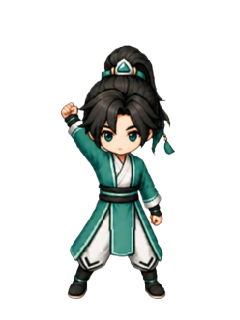
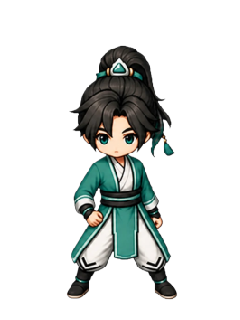
美术(T45 patch5)：cast_down_2 劈停左下重出（1 张·2 分）——链式锚定 cast_1 锁手别，check_left 26.881 一次过，归一 112x255/y300/x120.34

Changed region(s): [[0.2333, 0.125, 0.7583, 0.9375]]

diff --git a/assets/_trial_20260904/t45_batch1/patch_cast5/run_patch5.py b/assets/_trial_20260904/t45_batch1/patch_cast5/run_patch5.py
@@ -1,0 +1,340 @@
+#!/usr/bin/env python3
+"""T45 批 1 补丁 5 · cast_down_2 劈停左下重出（1 张，Leo 逐字任务书）。
+动作序列 = 举臂左上（cast_1 保留不动）→ 劈下停左下（cast_2 本张）→ 回位戒备（cast_3=复用锚已就位）。
+链式锚定：左格基准/第二参照/校验基准一律 = cast_down_1 成品（画面锁手别）。
+与 patch_cast4 的差异（任务书改口径）：
+  ①双格表 640×320（左格原点粘贴，非 640×427 条带）②prompt 任务书逐字（无骨架代换）
+  ③aspect 拒绝→9:16 重试一次并登记 ④门清单仅 check_left_v2 T=30（高度比只实测记录不拦截）
+  ⑤mxai 抠图失败重试不超 1 次（铁律）。
+用法:
+  python3 run_patch5.py gen     # 生图+check_left_v2+测量
+  python3 run_patch5.py finish  # 抠图+归一+入库（gen 过门后）
+"""
+import json
+import os
+import subprocess
+import sys
+from collections import deque
+from PIL import Image
+
+ROOT = os.path.abspath(os.path.join(os.path.dirname(__file__), "../../../.."))
+B1 = os.path.join(ROOT, "assets/_trial_20260904/t45_batch1")
+PC = os.path.join(B1, "patch_cast5")
+LIB = os.path.join(ROOT, "assets/characters/hero/battle45")
+
+NAME = "cast_down_2"
+ANCHOR = os.path.join(LIB, "cast_down_1.png")   # 链式锚：cast_1 成品（任务书步骤 2/4/5）
+SHEET = os.path.join(PC, "sheets", f"{NAME}_sheet.png")
+PF = os.path.join(PC, "prompts", f"{NAME}.txt")  # 任务书逐字 prompt（已落盘）
+RAW = os.path.join(PC, "raw", f"{NAME}_raw.png")
+
+WHITE_THRESH = 40
+MIN_CC = 2000
+T_LEFT = 30.0
+ASPECT = "3:2"
+ASPECT_FALLBACK = "9:16"   # 任务书：报价报 aspect 不支持→改 9:16 重试一次并登记
+
+
+def out_band(W, H):
+    return 0, H
+
+
+# ---------- 测量（纯 PIL，同 patch_cast4） ----------
+def cc_largest(region, thresh=WHITE_THRESH):
+    W, H = region.size
+    px = list(region.getdata())
+    fg = bytearray(W * H)
+    for i, (r, g, b) in enumerate(px):
+        if (255 - r) ** 2 + (255 - g) ** 2 + (255 - b) ** 2 > thresh * thresh:
+            fg[i] = 1
+    seen = bytearray(W * H)
+    best = None
+    for start in range(W * H):
+        if seen[start] or not fg[start]:
+            continue
+        seen[start] = 1
+        q = deque([start])
+        size = 0
+        minx = maxx = start % W
+        miny = maxy = start // W
+        sx = 0
+        while q:
+            i = q.popleft()
+            size += 1
+            x, y = i % W, i // W
+            sx += x
+            if x < minx: minx = x
+            if x > maxx: maxx = x
+            if y < miny: miny = y
+            if y > maxy: maxy = y
+            if x > 0 and fg[i - 1] and not seen[i - 1]:
+                seen[i - 1] = 1; q.append(i - 1)
+            if x < W - 1 and fg[i + 1] and not seen[i + 1]:
+                seen[i + 1] = 1; q.append(i + 1)
+            if y > 0 and fg[i - W] and not seen[i - W]:
+                seen[i - W] = 1; q.append(i - W)
+            if y < H - 1 and fg[i + W] and not seen[i + W]:
+                seen[i + W] = 1; q.append(i + W)
+        if best is None or size > best[0]:
+            best = (size, (minx, miny, maxx + 1, maxy + 1), sx / size)
+    return best
+
+
+def corners(img, box, tag):
+    x0, y0, x1, y1 = box
+    pts = [(x0 + 4, y0 + 4), (x1 - 5, y0 + 4), (x0 + 4, y1 - 5), (x1 - 5, y1 - 5)]
+    vals = [img.getpixel(p) for p in pts]
+    bad = []
+    for p, v in zip(pts, vals):
+        r, g, b = v[:3]
+        if min(r, g, b) < 245 or (max(r, g, b) - min(r, g, b)) > 12:
+            bad.append((p, v[:3]))
+    print(f"[corners:{tag}] {vals} " + ("OK" if not bad else f"NONWHITE={bad}"))
+    return bad
+
+
+def check_left(src_path, raw_path, t=T_LEFT):
+    """check_left v2（内容对齐版）：基准=cast_down_1 成品"""
+    src = Image.open(src_path).convert("RGBA")
+    raw = Image.open(raw_path).convert("RGB")
+    W, H = raw.size
+    region = raw.crop((0, 0, W // 2, H))
+    cc = cc_largest(region)
+    if cc is None:
+        print("[check_left_v2] 左半区无主体 FAIL")
+        return 999.0, False
+    bx = cc[1]
+    amask = src.getchannel("A").point(lambda v: 255 if v > 0 else 0)
+    abox = amask.getbbox()
+    tw, th = abox[2] - abox[0], abox[3] - abox[1]
+    crop = raw.crop(bx).resize((tw, th), Image.NEAREST)
+    aref = Image.alpha_composite(Image.new("RGBA", src.size, "WHITE"), src).crop(abox).convert("RGB")
+    sd, ld = list(aref.getdata()), list(crop.getdata())
+    total = 0.0
+    for (r1, g1, b1), (r2, g2, b2) in zip(sd, ld):
+        total += ((r1 - r2) ** 2 + (g1 - g2) ** 2 + (b1 - b2) ** 2) ** 0.5
+    mean = total / len(sd)
+    ok = mean <= t
+    print(f"[check_left_v2] baseline={os.path.basename(src_path)} content_aligned mean_rgb_dist={mean:.3f} T={t} "
+          f"{'PASS' if ok else 'FAIL'} raw_left_env={bx} anchor_env={abox}")
+    return mean, ok
+
+
+# ---------- 记录 ----------
+def log_read():
+    p = os.path.join(PC, "measure_log_patch5.json")
+    if os.path.exists(p):
+        with open(p, encoding="utf-8") as f:
+            return json.load(f)
+    return {}
+
+
+def log_write(rec):
+    p = os.path.join(PC, "measure_log_patch5.json")
+    logs = log_read()
+    logs[rec["frame"]] = rec
+    with open(p, "w", encoding="utf-8") as f:
+        json.dump(logs, f, ensure_ascii=False, indent=1)
+
+
+def credits_append(name, note):
+    p = os.path.join(B1, "credits.json")
+    arr = []
+    if os.path.exists(p):
+        with open(p, encoding="utf-8") as f:
+            arr = json.load(f)
+    arr.append({"name": name, "model": "gpt-image-2", "cost": 2,
+                "ts": "2026-09-04 T45-batch1-patch5", "note": note})
+    with open(p, "w", encoding="utf-8") as f:
+        json.dump(arr, f, ensure_ascii=False, indent=1)
+    print(f"[credits] +2 分，累计 {sum(x['cost'] for x in arr)} 分 / {len(arr)} 张")
+
+
+def sh(cmd, env=None):
+    print("[CMD] " + " ".join(cmd))
+    r = subprocess.run(cmd, cwd=ROOT, env=env or os.environ.copy(),
+                       stdout=subprocess.PIPE, stderr=subprocess.STDOUT, text=True)
+    print(r.stdout[-2000:] if r.stdout else "")
+    return r.returncode, r.stdout or ""
+
+
+def gen_once(aspect):
+    return sh(["python3", "scripts/mxai_img2img.py", SHEET, ANCHOR,
+               "--out", RAW, "--prompt-file", PF, "--aspect", aspect])
+
+
+# ---------- gen 阶段 ----------
+def stage_gen():
+    if not os.path.exists(ANCHOR):
+        print(f"[STOP] 链式锚不存在: {ANCHOR}"); sys.exit(6)
+    if not os.path.exists(SHEET):
+        print(f"[STOP] 双格表不存在（步骤 2 应已构造）: {SHEET}"); sys.exit(6)
+    if not os.path.exists(PF):
+        print(f"[STOP] prompt 不存在（步骤 3 应已落盘）: {PF}"); sys.exit(6)
+    if os.path.exists(RAW):
+        print(f"[E-ENV-05] raw 已存在，禁覆盖: {RAW}"); sys.exit(5)
+
+    rc, outp = gen_once(ASPECT)
+    aspect_note = ASPECT
+    if rc != 0 or not os.path.exists(RAW):
+        if "aspect" in outp.lower():
+            print(f"[aspect-拒绝] 改 {ASPECT_FALLBACK} 重试一次并登记（任务书步骤 4）")
+            aspect_note = ASPECT_FALLBACK
+            rc, outp = gen_once(ASPECT_FALLBACK)
+        else:
+            print("[E-GEN-01] 同命令重跑 1 次")
+            rc, outp = gen_once(ASPECT)
+    if rc != 0 or not os.path.exists(RAW):
+        rec = {"frame": NAME, "result": "SKIP", "reason": "生图两次失败", "log": outp[-500:]}
+        log_write(rec)
+        print("[STOP] 生图两次失败，登记停上报"); sys.exit(3)
+    try:
+        Image.open(RAW).verify()
+    except Exception as e:
+        print(f"[E-GEN-02] 返回图损坏: {e}")
+        os.rename(RAW, RAW.replace("_raw.png", "_fail1.png"))
+        rc, outp = gen_once(aspect_note)
+        if rc != 0 or not os.path.exists(RAW):
+            rec = {"frame": NAME, "result": "SKIP", "reason": "重跑后仍失败/损坏", "log": outp[-500:]}
+            log_write(rec)
+            print("[STOP] 登记停上报"); sys.exit(3)
+
+    credits_append(NAME, f"劈停左下重出：640x320 双格表双参照 img2img aspect={aspect_note}，"
+                         f"左格基准=cast_down_1.png（链式锁手别）；prompt 任务书逐字")
+
+    # check_left_v2（基准=cast_down_1，T=30；FAIL→重跑 1 次→再犯登记停上报）
+    mean, ok = check_left(ANCHOR, RAW)
+    rerun = None
+    if not ok:
+        rerun = f"check_left_FAIL_mean={mean:.3f}"
+        os.rename(RAW, RAW.replace("_raw.png", "_fail1.png"))
+        rc, outp = gen_once(aspect_note)
+        if rc != 0 or not os.path.exists(RAW):
+            rec = {"frame": NAME, "result": "SKIP", "reason": "check_left FAIL 后重跑生图失败"}
+            log_write(rec)
+            print("[STOP] 登记停上报"); sys.exit(3)
+        credits_append(NAME + "_rerun", "check_left FAIL 同命令重跑 1 次（E-ANCHOR-01 口径）")
+        mean, ok = check_left(ANCHOR, RAW)
+        if not ok:
+            rec = {"frame": NAME, "result": "SKIP", "reason": f"check_left_v2 两次 FAIL mean={mean:.3f}",
+                   "check_left": round(mean, 3), "rerun": rerun}
+            log_write(rec)
+            print("[STOP] check_left_v2 再犯，登记停上报"); sys.exit(4)
+
+    # 测量（门=任务书清单仅 check_left；高度比只实测记录不拦截）
+    img = Image.open(RAW).convert("RGB")
+    W, H = img.size
+    corners(img, (0, 0, W // 2, H), "left")
+    corners(img, (W // 2, 0, W, H), "right")
+    L = cc_largest(img.crop((0, 0, W // 2, H)))
+    R = cc_largest(img.crop((W // 2, 0, W, H)))
+    lh = L[1][3] - L[1][1] if L else 0
+    rw = R[1][2] - R[1][0] if R else 0
+    rh = R[1][3] - R[1][1] if R else 0
+    hr = rh / lh if lh and R else 0
+    asp = rw / rh if rh and R else 0
+    print(f"[gates] left_env={L[1] if L else None} h={lh} | right_env={R[1] if R else None} w={rw} h={rh} cc={R[0] if R else 0} "
+          f"| height_ratio={hr:.3f}（实测记录） aspect={asp:.3f}（实测记录）")
+    rec = {"frame": NAME, "raw_size": [W, H], "aspect": aspect_note, "check_left": round(mean, 3),
+           "check_left_pass": ok, "rerun": rerun,
+           "left_env": list(L[1]) if L else None, "left_h": lh,
+           "right_env": list(R[1]) if R else None, "right_w": rw, "right_h": rh, "right_cc": R[0] if R else 0,
+           "height_ratio_recorded": round(hr, 3), "aspect_recorded": round(asp, 3),
+           "result": "GATED" if (R and R[0] >= MIN_CC) else "SKIP_RIGHT_MISSING"}
+    log_write(rec)
+    if rec["result"] != "GATED":
+        print(f"[STOP] 右格主体缺失/过小（cc={R[0] if R else 0} < {MIN_CC}），登记停上报"); sys.exit(4)
+    print("[gen] 完成（GATED→可 finish）")
+
+
+# ---------- finish 阶段 ----------
+def stage_finish():
+    right = os.path.join(PC, "right", f"{NAME}_right.png")
+    cut = os.path.join(PC, "cut", f"{NAME}_cut.png")
+    final = os.path.join(LIB, f"{NAME}.png")
+    if os.path.exists(final):
+        print(f"[E-ENV-05] 入库目标已存在: {final}（步骤 1 应已归档）"); sys.exit(5)
+
+    img = Image.open(RAW).convert("RGB")
+    W, H = img.size
+    img.crop((W // 2, 0, W, H)).save(right)
+
+    # mxai 抠图（失败重试不超 1 次）
+    env = os.environ.copy()
+    nm = os.path.join(ROOT, "node_modules")
+    if os.path.isdir(nm):
+        env["NODE_PATH"] = nm
+    rc = None
+    for attempt in (1, 2):
+        rc, _ = sh(["node", "scripts/mxai_web_cutout.js", right, cut], env=env)
+        if rc == 0 and os.path.exists(cut):
+            try:
+                Image.open(cut).verify()
+                break
+            except Exception as e:
+                print(f"[E-CUT] 抠图产物损坏 attempt{attempt}: {e}")
+        else:
+            print(f"[E-CUT-01] 抠图失败 attempt{attempt} rc={rc}")
+        if attempt == 1 and os.path.exists(cut):
+            os.rename(cut, cut.replace("_cut.png", "_fail1.png"))
+    if rc != 0 or not os.path.exists(cut):
+        rec = log_read().get(NAME, {"frame": NAME})
+        rec["result"] = "SKIP"
+        rec["reason"] = "mxai 抠图两次失败（E-CUT-01 上报）"
+        log_write(rec)
+        print("[STOP] 抠图两次失败，登记停上报"); sys.exit(3)
+
+    # 归一 240×320：包络高 256、脚底基线 y=300、质心 x=120（任务书步骤 6）
+    cimg = Image.open(cut).convert("RGBA")
+    a = cimg.getchannel("A")
+    bbox = a.point(lambda v: 255 if v > 0 else 0).getbbox()
+    if bbox is None:
+        rec = log_read().get(NAME, {"frame": NAME})
+        rec["result"] = "SKIP"; rec["reason"] = "抠图结果全透明"; log_write(rec)
+        print("[STOP] 抠图全透明"); sys.exit(3)
+    ew, eh = bbox[2] - bbox[0], bbox[3] - bbox[1]
+    s = 256.0 / eh
+    nw, nh = round(ew * s), round(eh * s)
+    print(f"[norm] cut_env={ew}x{eh} scale={s:.4f} -> {nw}x{nh}")
+    if nw > 240 or nh > 320:
+        rec = log_read().get(NAME, {"frame": NAME})
+        rec["result"] = "SKIP"
+        rec["reason"] = f"归一溢出：适配后 {nw}x{nh} 超出 240x320 画布（报 Leo）"
+        rec["cut_env"] = [ew, eh]
+        log_write(rec)
+        print(f"[STOP] {rec['reason']}"); sys.exit(4)
+    body = cimg.crop(bbox).resize((nw, nh), Image.NEAREST)
+    bd = list(body.getdata())
+    sw = sx = 0
+    for i, px in enumerate(bd):
+        al = px[3]
+        if al > 0:
+            sw += al; sx += al * (i % nw)
+    cx = sx / sw
+    paste_x = round(120 - cx)
+    canvas = Image.new("RGBA", (240, 320), (0, 0, 0, 0))
+    canvas.paste(body, (paste_x, 300 - nh), body)
+    canvas.save(final)
+    # 复核
+    fa = Image.open(final).getchannel("A")
+    fb = fa.point(lambda v: 255 if v > 0 else 0).getbbox()
+    fdata = list(Image.open(final).getdata())
+    fw = 240; fsw = fsx = 0
+    for i, px in enumerate(fdata):
+        if px[3] > 0:
+            fsw += px[3]; fsx += px[3] * (i % fw)
+    fasp = (fb[2] - fb[0]) / (fb[3] - fb[1])
+    print(f"[final] {final} bbox={fb} env={fb[2]-fb[0]}x{fb[3]-fb[1]} "
+          f"bottom={fb[3]} centroid_x={fsx/fsw:.2f} aspect={fasp:.3f}")
+    rec = log_read().get(NAME)
+    rec["result"] = "OK"
+    rec["final_bbox"] = list(fb)
+    rec["final_env"] = [fb[2] - fb[0], fb[3] - fb[1]]
+    rec["final_centroid_x"] = round(fsx / fsw, 2)
+    rec["final_aspect"] = round(fasp, 3)
+    log_write(rec)
+    print(f"[finish] {NAME} 入库 OK")
+
+
+if __name__ == "__main__":
+    {"gen": stage_gen, "finish": stage_finish}[sys.argv[1]]()
